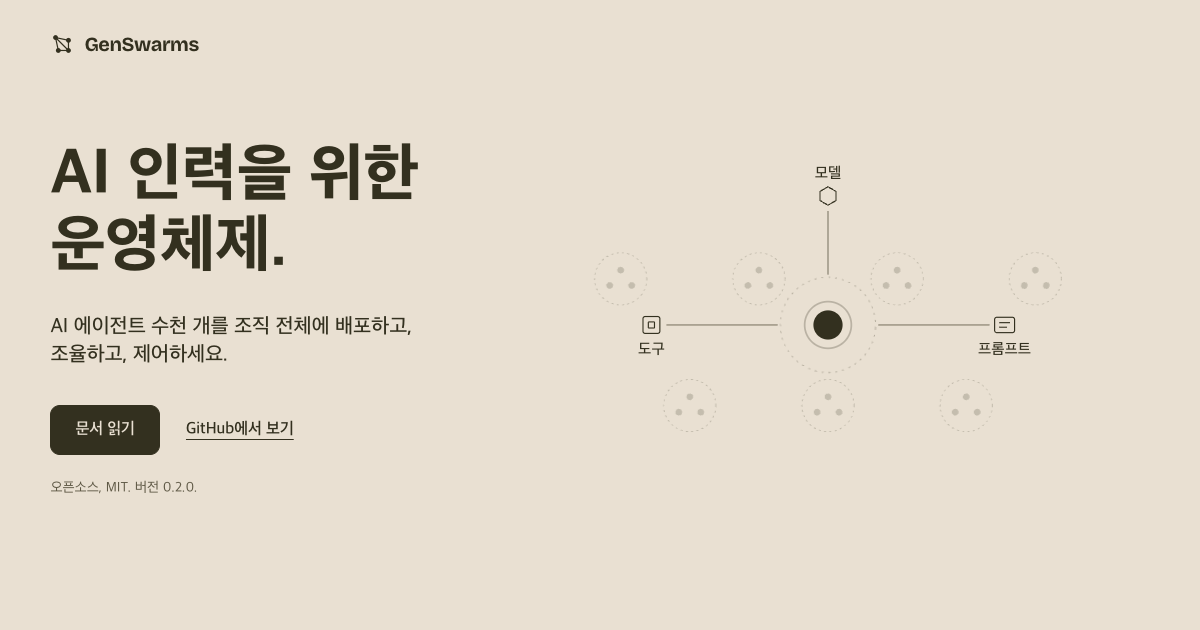
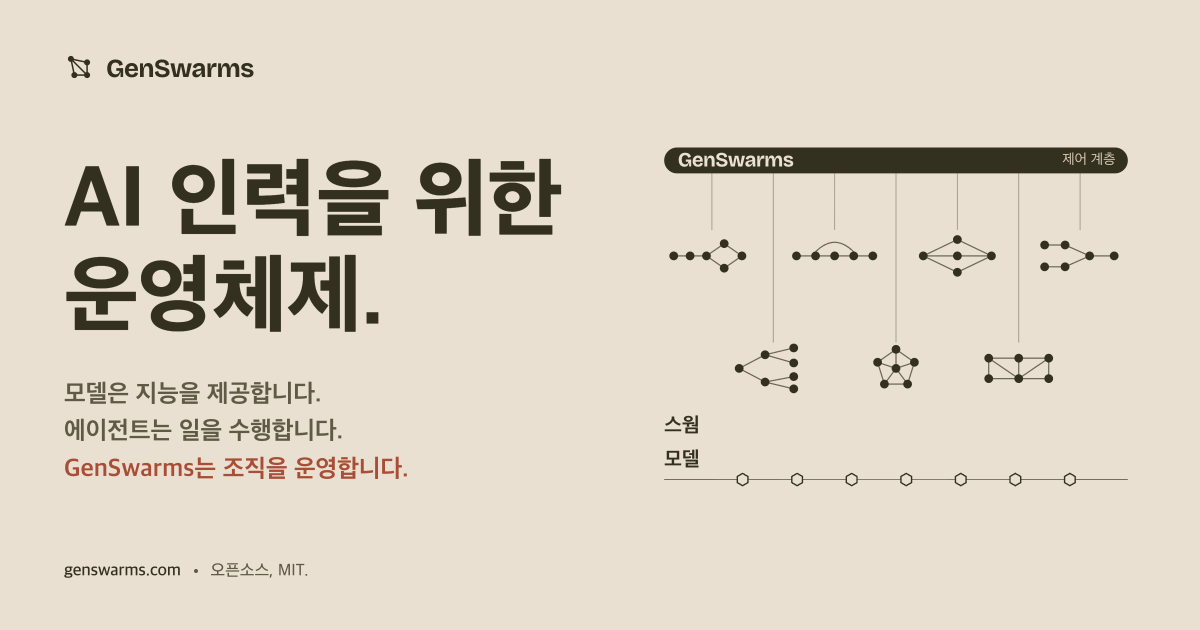
site: a purpose-built share card per language
The share images were screenshots of each page's hero: two buttons that can't be clicked, a small drawing
in a mostly empty half, and in Russian the footer line was cut off. Each version now gets a designed
1200x630 card drawn from its own HTML (src/card.mjs, never deployed): the GenSwarms lockup, the page's
headline, the closing triad of step 9 one beat per line (the last in clay), genswarms.com with
"Open source, MIT.", and step 9's drawing (control layer, swarms, models) with its translated labels.
Every word is the page's own, looked up through the same t() calls, so the catalogue is unchanged.

- tools/og.cjs builds in memory and renders each card at 2x, scaled down to 1200x630; no server needed.
  The card's script steps the headline down until nothing overflows and the last line is not a stranded
  word; og.cjs refuses a card that still doesn't fit. Hyphenated compounds (ИИ-персонала) stay whole.
- The og lock's source is now the hash of the card HTML, so --check fails when a headline, triad line,
  figure label or the card template changes and the image wasn't re-rendered.
- Pages gain og:image:width/height and og:image:alt (the page title, already translated).
- Tests: each card carries the translated headline, triad and labels and no buttons; --check catches a
  stale card after a triad translation changes. i18n/README.md documents the card.

diff --git a/website/ru/index.html b/website/ru/index.html
@@ -18,6 +18,7 @@
 <meta property="og:title" content="GenSwarms — операционная система для ИИ-персонала">
 <meta property="og:description" content="Развёртывайте, координируйте и контролируйте ИИ-агентов как отдельные процессы под супервизором.">
 <meta property="og:url" content="https://genswarms.com/ru/"><meta property="og:image" content="https://genswarms.com/og-ru.png">
+<meta property="og:image:width" content="1200"><meta property="og:image:height" content="630"><meta property="og:image:alt" content="GenSwarms — операционная система для ИИ-персонала">
 <meta name="twitter:card" content="summary_large_image">
 <link rel="icon" href="/favicon.svg" type="image/svg+xml"><link rel="icon" href="/favicon-32.png" sizes="32x32"><link rel="apple-touch-icon" href="/apple-touch-icon.png">
 <script type="application/ld+json">{"@context":"https://schema.org","@type":"SoftwareApplication","name":"GenSwarms","applicationCategory":"DeveloperApplication","operatingSystem":"Linux, macOS","softwareVersion":"0.2.0","license":"https://opensource.org/licenses/MIT","url":"https://genswarms.com/ru/","codeRepository":"https://github.com/genlayerlabs/genswarms","description":"Операционная система для ИИ-персонала: запускает ИИ-агентов как отдельные процессы под супервизором, на объявленных маршрутах сообщений, с API на REST и WebSocket и потоком событий в реальном времени.","inLanguage":"ru","offers":{"@type":"Offer","price":"0","priceCurrency":"USD"},"author":{"@type":"Organization","name":"GenLayer Labs"}}</script>

diff --git a/website/ko/index.html b/website/ko/index.html
@@ -18,6 +18,7 @@
 <meta property="og:title" content="GenSwarms: AI 인력을 위한 운영체제">
 <meta property="og:description" content="AI 에이전트를 슈퍼바이저가 관리하는 개별 프로세스로 배포하고, 조율하고, 제어합니다.">
 <meta property="og:url" content="https://genswarms.com/ko/"><meta property="og:image" content="https://genswarms.com/og-ko.png">
+<meta property="og:image:width" content="1200"><meta property="og:image:height" content="630"><meta property="og:image:alt" content="GenSwarms: AI 인력을 위한 운영체제">
 <meta name="twitter:card" content="summary_large_image">
 <link rel="icon" href="/favicon.svg" type="image/svg+xml"><link rel="icon" href="/favicon-32.png" sizes="32x32"><link rel="apple-touch-icon" href="/apple-touch-icon.png">
 <script type="application/ld+json">{"@context":"https://schema.org","@type":"SoftwareApplication","name":"GenSwarms","applicationCategory":"DeveloperApplication","operatingSystem":"Linux, macOS","softwareVersion":"0.2.0","license":"https://opensource.org/licenses/MIT","url":"https://genswarms.com/ko/","codeRepository":"https://github.com/genlayerlabs/genswarms","description":"AI 인력을 위한 운영체제. AI 에이전트를 슈퍼바이저가 관리하는 개별 프로세스로, 선언된 메시지 경로 위에서 실행합니다. REST + WebSocket API와 실시간 이벤트 스트림을 제공합니다.","inLanguage":"ko","offers":{"@type":"Offer","price":"0","priceCurrency":"USD"},"author":{"@type":"Organization","name":"GenLayer Labs"}}</script>

diff --git a/website/tr/index.html b/website/tr/index.html
@@ -18,6 +18,7 @@
 <meta property="og:title" content="GenSwarms: yapay zekâ iş gücü için işletim sistemi">
 <meta property="og:description" content="Yapay zekâ ajanlarını ayrı, denetimli süreçler olarak devreye alın, koordine edin ve kontrol edin.">
 <meta property="og:url" content="https://genswarms.com/tr/"><meta property="og:image" content="https://genswarms.com/og-tr.png">
+<meta property="og:image:width" content="1200"><meta property="og:image:height" content="630"><meta property="og:image:alt" content="GenSwarms: yapay zekâ iş gücü için işletim sistemi">
 <meta name="twitter:card" content="summary_large_image">
 <link rel="icon" href="/favicon.svg" type="image/svg+xml"><link rel="icon" href="/favicon-32.png" sizes="32x32"><link rel="apple-touch-icon" href="/apple-touch-icon.png">
 <script type="application/ld+json">{"@context":"https://schema.org","@type":"SoftwareApplication","name":"GenSwarms","applicationCategory":"DeveloperApplication","operatingSystem":"Linux, macOS","softwareVersion":"0.2.0","license":"https://opensource.org/licenses/MIT","url":"https://genswarms.com/tr/","codeRepository":"https://github.com/genlayerlabs/genswarms","description":"Yapay zekâ iş gücü için işletim sistemi: yapay zekâ ajanlarını tanımlı mesaj yollarında ayrı, denetimli süreçler olarak çalıştırır; REST + WebSocket API ve canlı olay akışı sunar.","inLanguage":"tr","offers":{"@type":"Offer","price":"0","priceCurrency":"USD"},"author":{"@type":"Organization","name":"GenLayer Labs"}}</script>

diff --git a/website/es/index.html b/website/es/index.html
@@ -18,6 +18,7 @@
 <meta property="og:title" content="GenSwarms: el sistema operativo para la fuerza laboral de IA">
 <meta property="og:description" content="Despliega, coordina y controla agentes de IA como procesos separados y supervisados.">
 <meta property="og:url" content="https://genswarms.com/es/"><meta property="og:image" content="https://genswarms.com/og-es.png">
+<meta property="og:image:width" content="1200"><meta property="og:image:height" content="630"><meta property="og:image:alt" content="GenSwarms: el sistema operativo para la fuerza laboral de IA">
 <meta name="twitter:card" content="summary_large_image">
 <link rel="icon" href="/favicon.svg" type="image/svg+xml"><link rel="icon" href="/favicon-32.png" sizes="32x32"><link rel="apple-touch-icon" href="/apple-touch-icon.png">
 <script type="application/ld+json">{"@context":"https://schema.org","@type":"SoftwareApplication","name":"GenSwarms","applicationCategory":"DeveloperApplication","operatingSystem":"Linux, macOS","softwareVersion":"0.2.0","license":"https://opensource.org/licenses/MIT","url":"https://genswarms.com/es/","codeRepository":"https://github.com/genlayerlabs/genswarms","description":"El sistema operativo para la fuerza laboral de IA: ejecuta agentes de IA como procesos separados y supervisados, en rutas de mensajes declaradas, con una API REST + WebSocket y un flujo de eventos en tiempo real.","inLanguage":"es","offers":{"@type":"Offer","price":"0","priceCurrency":"USD"},"author":{"@type":"Organization","name":"GenLayer Labs"}}</script>

diff --git a/website/index.html b/website/index.html
@@ -18,6 +18,7 @@
 <meta property="og:title" content="GenSwarms: the operating system for AI workforces">
 <meta property="og:description" content="Deploy, coordinate and control AI agents as separate, supervised processes.">
 <meta property="og:url" content="https://genswarms.com/"><meta property="og:image" content="https://genswarms.com/og-image.png">
+<meta property="og:image:width" content="1200"><meta property="og:image:height" content="630"><meta property="og:image:alt" content="GenSwarms: the operating system for AI workforces">
 <meta name="twitter:card" content="summary_large_image">
 <link rel="icon" href="/favicon.svg" type="image/svg+xml"><link rel="icon" href="/favicon-32.png" sizes="32x32"><link rel="apple-touch-icon" href="/apple-touch-icon.png">
 <script type="application/ld+json">{"@context":"https://schema.org","@type":"SoftwareApplication","name":"GenSwarms","applicationCategory":"DeveloperApplication","operatingSystem":"Linux, macOS","softwareVersion":"0.2.0","license":"https://opensource.org/licenses/MIT","url":"https://genswarms.com/","codeRepository":"https://github.com/genlayerlabs/genswarms","description":"The operating system for AI workforces: runs AI agents as separate, supervised processes on declared message paths, with a REST + WebSocket API and a live event stream.","inLanguage":"en","offers":{"@type":"Offer","price":"0","priceCurrency":"USD"},"author":{"@type":"Organization","name":"GenLayer Labs"}}</script>

diff --git a/website/zh/index.html b/website/zh/index.html
@@ -18,6 +18,7 @@
 <meta property="og:title" content="GenSwarms：AI 员工的操作系统">
 <meta property="og:description" content="以独立、受监督的进程部署、协调和控制 AI 智能体。">
 <meta property="og:url" content="https://genswarms.com/zh/"><meta property="og:image" content="https://genswarms.com/og-zh.png">
+<meta property="og:image:width" content="1200"><meta property="og:image:height" content="630"><meta property="og:image:alt" content="GenSwarms：AI 员工的操作系统">
 <meta name="twitter:card" content="summary_large_image">
 <link rel="icon" href="/favicon.svg" type="image/svg+xml"><link rel="icon" href="/favicon-32.png" sizes="32x32"><link rel="apple-touch-icon" href="/apple-touch-icon.png">
 <script type="application/ld+json">{"@context":"https://schema.org","@type":"SoftwareApplication","name":"GenSwarms","applicationCategory":"DeveloperApplication","operatingSystem":"Linux, macOS","softwareVersion":"0.2.0","license":"https://opensource.org/licenses/MIT","url":"https://genswarms.com/zh/","codeRepository":"https://github.com/genlayerlabs/genswarms","description":"AI 员工的操作系统：把每个 AI 智能体作为独立、受监督的进程运行，消息只沿声明的路径传递，提供 REST + WebSocket API 与实时事件流。","inLanguage":"zh-Hans","offers":{"@type":"Offer","price":"0","priceCurrency":"USD"},"author":{"@type":"Organization","name":"GenLayer Labs"}}</script>

diff --git a/website/i18n/README.md b/website/i18n/README.md
@@ -10,7 +10,7 @@ the build refuses stale or partial translations).
 | `<lang>.json` | A translation (`es`, `ko`, `zh`, `ru`, `tr`): `{ "<id>": "<text>", "_same_as_english": [ids] }`. Its presence is what builds `website/<lang>/`. |
 | `<lang>.ledger.md` | The translator's term decisions for that language. |
 | `build.lock.json` | Written by a successful build: hashes of the English source, the catalogue, each translation and each output. |
-| `og.lock.json` | Written by `tools/og.cjs`: which hero each share image shows, and the image's hash. |
+| `og.lock.json` | Written by `tools/og.cjs`: the hash of the share card each image was rendered from, and the image's hash. |
 
 ## Day to day
 
@@ -19,12 +19,25 @@ the build refuses stale or partial translations).
 3. `node website/build.mjs`: lists every id each language is missing (or whose markup, placeholders, protected names or
    length are wrong) and writes nothing until they are fixed. Translate those ids in `<lang>.json`, keeping the ledger's terms.
 4. `node website/build.mjs` again: writes `index.html`, `<lang>/index.html`, `404.html`, `sitemap.xml`, `llms.txt` and `build.lock.json`.
-5. With `website/` served (e.g. `python3 -m http.server 8790 --directory website`), run
-   `node website/tools/og.cjs` (share images) and the checks:
-   `node --test website/tests/*.mjs`, `node website/tests/browser/i18n-audit.cjs http://localhost:8790/`
-   (every language × 14 sizes, suggestion bar), `audit.cjs` and `story.cjs`.
+5. `node website/tools/og.cjs`: the share images (see below; no server needed). Then, with `website/` served (e.g.
+   `python3 -m http.server 8790 --directory website`), the checks: `node --test website/tests/*.mjs`,
+   `node website/tests/browser/i18n-audit.cjs http://localhost:8790/` (every language × 14 sizes, suggestion bar),
+   `audit.cjs` and `story.cjs`.
 6. `node website/build.mjs --check` passes, then commit. CI runs the tests and `--check` on pull requests and before
    every deploy; after a deploy, `node website/build.mjs --verify https://genswarms.com/` checks every version is served right.
+
+## Share images
+
+Each version has its own share card (`og-image.png`, `og-<lang>.png`, 1200×630), drawn from HTML the build makes
+per language (`src/card.mjs`, never deployed): the logo, the page's headline, the closing triad of step 9 (one line
+each, the last in clay), `genswarms.com` with the first sentence of the "Open source, MIT." line, and step 9's drawing
+(the control layer over the swarms and the models) with its translated labels. It has no strings of its own: every
+word is the page's, so translating the page translates the card. `tools/og.cjs` renders each card at 2x and scales it
+down; the card's script steps the headline size down (from the per-language size in `card.mjs`) until nothing
+overflows and the last line is not a stranded word, and og.cjs refuses a card that still doesn't fit. The build
+hashes each card into `build.lock.json` (`og`), so `--check` fails when a headline, a triad line, a figure label or
+the card template changed and the image wasn't re-rendered. Pages carry `og:image:width`/`height` and
+`og:image:alt` (the page title).
 
 Browser tools need `NODE_PATH` pointing at a `node_modules` with `playwright-core`, and Chrome (`CHROME=` to override).
 Without a URL, `i18n-audit.cjs` builds pseudo-locales (`website/tools/pseudo.mjs`) into a temp folder and audits those.
